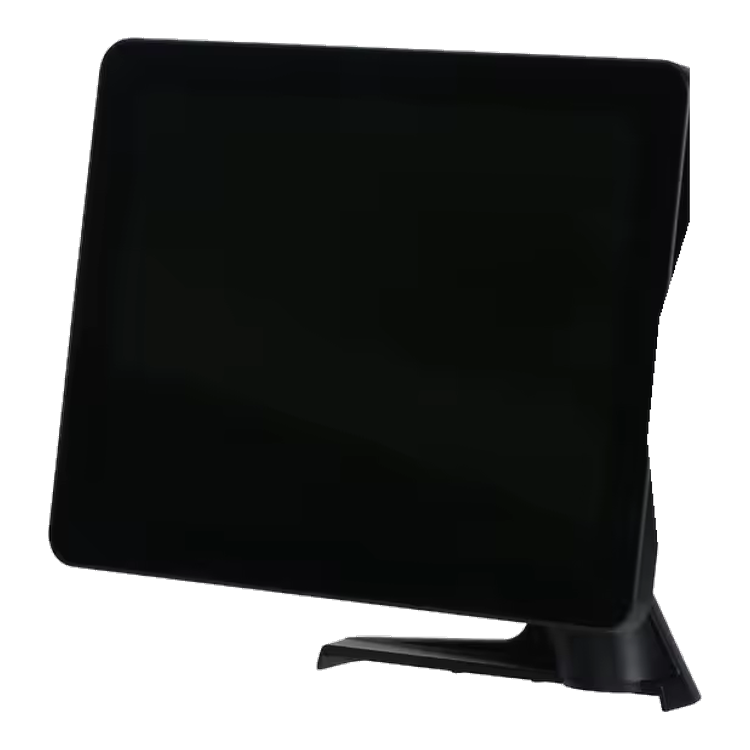
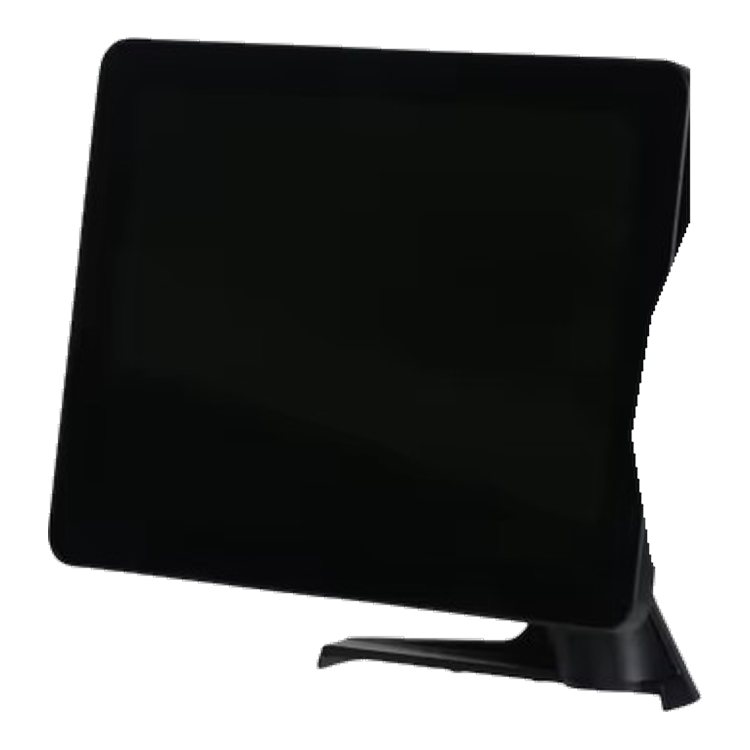
Refresh WDLink WD15M photo and image SEO metadata

diff --git a/src/app/[locale]/shop/[slug]/page.tsx b/src/app/[locale]/shop/[slug]/page.tsx
@@ -46,7 +46,8 @@ export async function generateMetadata({ params }: Props): Promise<Metadata> {
     openGraph: {
       title: `${product.name}${product.subline ? " " + product.subline : ""}`,
       description: product.tagline,
-      images: [{ url: product.heroImage }],
+      images: [{ url: product.heroImage, alt: product.alt, width: 750, height: 750 }],
+      type: "website",
     },
   };
 }

diff --git a/src/data/catalog.ts b/src/data/catalog.ts
@@ -181,7 +181,7 @@ const WDLINK_WD15M: CatalogProduct = {
   tagline: "A screen built for the front line. Designed for the long shift.",
   category: "pos-terminals",
   heroImage: "/hardware/wdlink-wd15m.png",
-  alt: "WDLink WD15M — 15.6-inch true-flat capacitive POS touch monitor on a foldable VESA-compatible aluminium stand, shown from the rear.",
+  alt: "WDLink WD15M 15.6-inch capacitive POS touch monitor with foldable VESA-compatible stand, front three-quarter view in matte black.",
   shortDescription:
     "A 15.6-inch true-flat capacitive touch monitor engineered for 24/7 counter use. Pairs with any Windows POS host over VGA + USB, folds flat for kiosk mode, and mounts to any VESA arm for tight-counter installs. Grade-A panel, metal chassis, fanless thermal design — built to survive a year of double shifts.",
   features: [